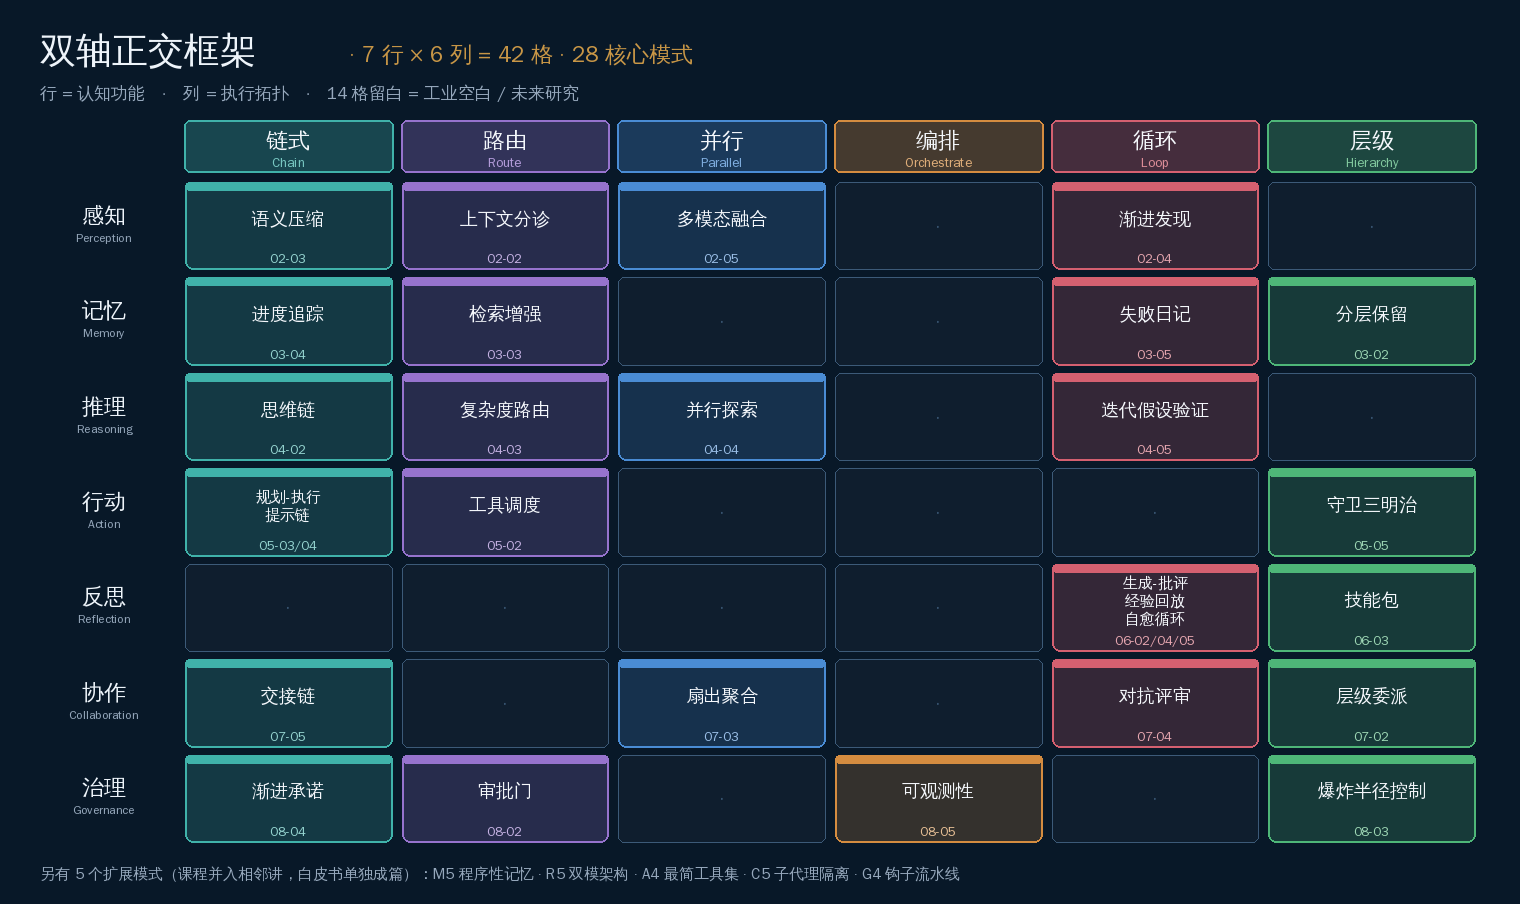
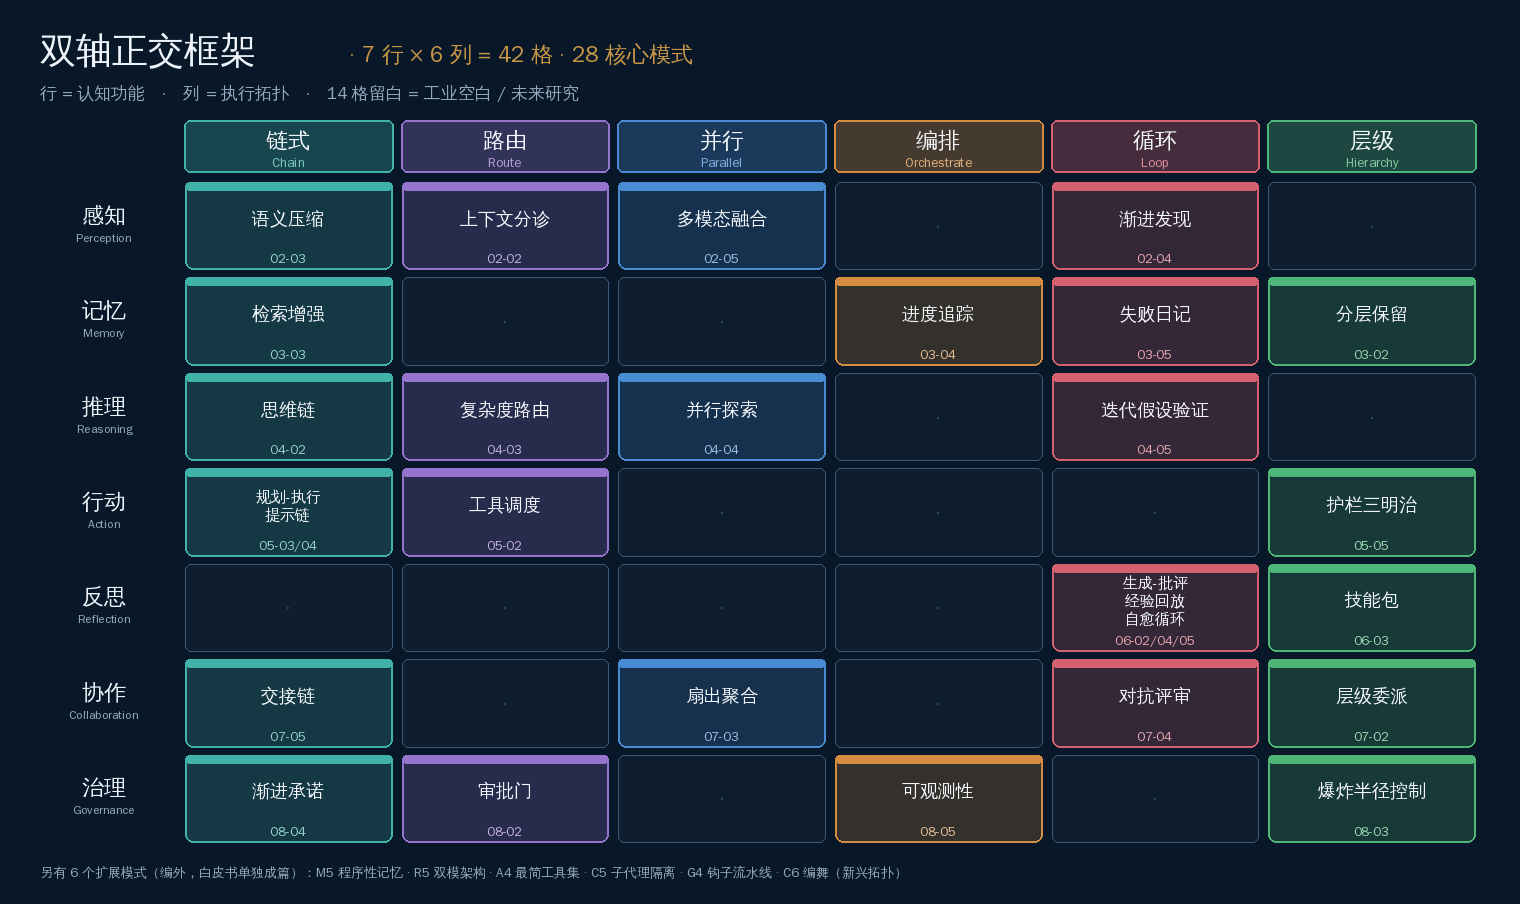
Publish bf69cf7

diff --git a/founders/index.html b/founders/index.html
@@ -55,7 +55,10 @@
             <div style="display: grid; grid-template-columns: 90px 1fr; gap: 1.25rem; align-items: center; margin-top: 2.5rem;">
                 <img src="/images/avatar-jia.svg" alt="Jia Huang" style="width: 90px; height: 90px; border-radius: 50%;">
                 <div>
-                    <h2 style="margin: 0;">Jia Huang (黄佳)</h2>
+                    <h2 style="margin: 0;">
+                        <a href="https://kage-ai.com/" target="_blank" rel="noopener">Jia Huang (黄佳)</a>
+                        <a href="https://kage-ai.com/files/Jia-Huang-Profile.pdf" target="_blank" rel="noopener" style="font-family: var(--font-sans); font-size: 0.82rem; font-weight: 500; margin-left: 0.65rem; white-space: nowrap;">Profile PDF</a>
+                    </h2>
                     <p style="color: var(--color-badge); font-weight: 600; font-size: 0.92rem; letter-spacing: 0.04em; margin: 0.3rem 0 0 0;">AGENT ARCHITECTURE · PATTERN LANGUAGE · ENGINEERING EDUCATION</p>
                 </div>
             </div>

diff --git a/zh/founders/index.html b/zh/founders/index.html
@@ -53,7 +53,10 @@
             <div style="display: grid; grid-template-columns: 90px 1fr; gap: 1.25rem; align-items: center; margin-top: 2.5rem;">
                 <img src="/images/avatar-jia.svg" alt="黄佳" style="width: 90px; height: 90px; border-radius: 50%;">
                 <div>
-                    <h2 style="margin: 0;">黄佳（Jia Huang）</h2>
+                    <h2 style="margin: 0;">
+                        <a href="https://kage-ai.com/zh/" target="_blank" rel="noopener">黄佳（Jia Huang）</a>
+                        <a href="https://kage-ai.com/files/Jia-Huang-Profile.pdf" target="_blank" rel="noopener" style="font-family: var(--font-sans); font-size: 0.82rem; font-weight: 500; margin-left: 0.65rem; white-space: nowrap;">简历 PDF</a>
+                    </h2>
                     <p style="color: var(--color-badge); font-weight: 600; font-size: 0.92rem; letter-spacing: 0.04em; margin: 0.3rem 0 0 0;">Agent 架构 · 模式语言 · 工程教育</p>
                 </div>
             </div>

diff --git a/index.html b/index.html
@@ -114,7 +114,9 @@
                 <li style="padding: 0.85rem 0; border-bottom: 1px dotted var(--color-rule); display: grid; grid-template-columns: 60px 1fr; gap: 1rem; align-items: center;">
                     <img src="/images/avatar-jia.svg" alt="Jia Huang" style="width: 60px; height: 60px; border-radius: 50%;">
                     <div>
-                        <strong>Jia Huang (黄佳)</strong> <span style="color: var(--color-text-muted);">— Agent Architecture · Pattern Language · Engineering Education</span><br>
+                        <strong><a href="https://kage-ai.com/" target="_blank" rel="noopener">Jia Huang (黄佳)</a></strong>
+                        <span style="color: var(--color-text-muted);">— Agent Architecture · Pattern Language · Engineering Education</span>
+                        <span style="font-size: 0.86rem; white-space: nowrap;">· <a href="https://kage-ai.com/files/Jia-Huang-Profile.pdf" target="_blank" rel="noopener">Profile PDF</a></span><br>
                         <span style="font-size: 0.92rem; color: var(--color-text-muted);">AI researcher at A*STAR Singapore. Author of <em>Designing AI Agents</em> (Manning).</span>
                     </div>
                 </li>

diff --git a/zh/index.html b/zh/index.html
@@ -110,7 +110,9 @@
                 <li style="padding: 0.85rem 0; border-bottom: 1px dotted var(--color-rule); display: grid; grid-template-columns: 60px 1fr; gap: 1rem; align-items: center;">
                     <img src="/images/avatar-jia.svg" alt="黄佳" style="width: 60px; height: 60px; border-radius: 50%;">
                     <div>
-                        <strong>黄佳（Jia Huang）</strong> <span style="color: var(--color-text-muted);">— Agent 架构 · 模式语言 · 工程教育</span><br>
+                        <strong><a href="https://kage-ai.com/zh/" target="_blank" rel="noopener">黄佳（Jia Huang）</a></strong>
+                        <span style="color: var(--color-text-muted);">— Agent 架构 · 模式语言 · 工程教育</span>
+                        <span style="font-size: 0.86rem; white-space: nowrap;">· <a href="https://kage-ai.com/files/Jia-Huang-Profile.pdf" target="_blank" rel="noopener">简历 PDF</a></span><br>
                         <span style="font-size: 0.92rem; color: var(--color-text-muted);">新加坡 A*STAR AI 研究员。Manning《Designing AI Agents》作者。</span>
                     </div>
                 </li>